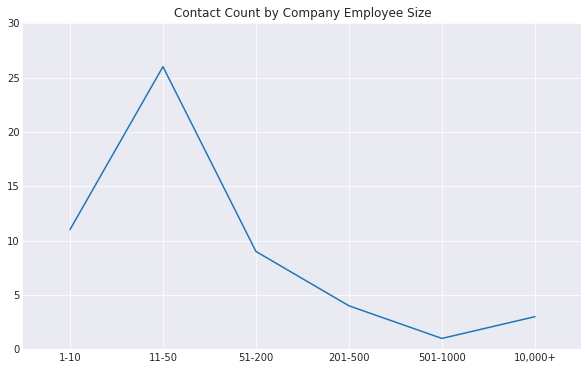
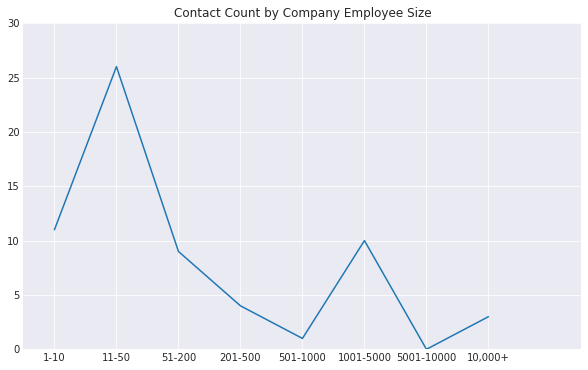
fixed bug in dispaly layer

diff --git a/_posts/2018-02-03-job-search-sales-ops-p3.md b/_posts/2018-02-03-job-search-sales-ops-p3.md
@@ -45,10 +45,10 @@ Read the dataset, rename the columns to something reasonable.
 ```python
 df = pd.read_csv('./data/prospect_proforma.csv')
 
-old_names = ['Int?', 'Contact Type', 'Outreach', 'Connect',
-             'Stage', 'Reason', 'Intros?', 'FU Date',
+old_names = ['Int?', 'Contact Type', 'Outreach', 'Connect', 
+             'Stage', 'Reason', 'Intros?', 'FU Date', 
              'Last ACT', 'Meetings', 'Email Address', 'LI Link',
-             'Employees', 'Industry', 'First Name', 'Last Name',
+             'Employees', 'Industry', 'First Name', 'Last Name', 
              'Company', 'Position', 'Connected On', 'Tags']
 new_names = ['INTERESTED','CONTACT_REASON','CONTACTED','CONNECTED',
              'STAGE','CLOSED_LOST_REASON','PROVIDED_INTROS','FOLLOWUP_DATE',
@@ -159,23 +159,23 @@ def tag_stages(row):
     # Did they make an interview?
     if row.notnull()['STAGE'] and row['STAGE'] != 'UQ':
         return 'INTERVIEW'
-
+    
     # Did they make a meeting?
     elif row.notnull()['STAGE']:
         return 'MEETING'
-
+    
     # Did they reply to email?
     elif row['CONNECTED'] == 'Yes':
         return 'CONNECTED'
-
+    
     # Did I reach out to them?
     elif row['CONTACTED'] == 'Yes':
         return 'CONTACTED'
-
+    
     else:
         return 'UNCONTACTED'
 
-
+    
 df['FUNNEL_STAGE'] = df.apply(tag_stages, axis = 1)
 
 print(df['FUNNEL_STAGE'].value_counts())
@@ -263,7 +263,8 @@ Let's take a look at the distribution of company sizes throughout the funnel. Ag
 
 ```python
 employee_mapping = {'1-10': 1, '11-50': 2, '51-200': 3,
-                   '201-500': 4,'501-1000': 5, '10,000+': 6}
+                    '201-500': 4,'501-1000': 5, '1001-5000': 6, 
+                    '5001-10000': 7, '10,000+': 8}
 df['FUNNEL_EMPLOYEES_INT'] = df['EMPLOYEES'].map(employee_mapping)
 ```
 
@@ -275,13 +276,13 @@ def get_count_by_company_size(company_size_int):
     return df[(df['FUNNEL_EMPLOYEES_INT'] == company_size_int)]['FUNNEL_EMPLOYEES_INT'].count()
 
 employee_sizes = []
-for i in range(1, 7):
+for i in range(1, 9):
     employee_sizes.append((i, get_count_by_company_size(i)))
 
 print(employee_sizes)
 ```
 
-    [(1, 11), (2, 26), (3, 9), (4, 4), (5, 1), (6, 3)]
+    [(1, 11), (2, 26), (3, 9), (4, 4), (5, 1), (6, 10), (7, 0), (8, 3)]
 
 
 ### Plotting time!
@@ -291,9 +292,9 @@ print(employee_sizes)
 # This is the same as above, but looking across employee buckets
 plt.figure(figsize=(10, 6))
 plt.ylim(0,30)
-plt.xlim(0.5, 6.5)
+plt.xlim(0.5, 9.5)
 plt.plot(*zip(*employee_sizes))
-plt.xticks(range(1, 7), sorted(employee_mapping, key=employee_mapping.get))
+plt.xticks(range(1, 9), sorted(employee_mapping, key=employee_mapping.get))
 plt.title('Contact Count by Company Employee Size')
 
 plt.show()
@@ -313,15 +314,15 @@ Maybe the graph between the company size and the stage might light some insight
 ```python
 def get_employee_count_by_stage(contact):
     return (contact['FUNNEL_EMPLOYEES_INT'], contact['FUNNEL_STAGE_INT'])
-
+    
 employees_by_stage = []
 for _, contact in df[df['FUNNEL_EMPLOYEES_INT'].notnull()].iterrows():
     employees_by_stage.append(get_employee_count_by_stage(contact))
-
+    
 print(employees_by_stage[:5])
 ```
 
-    [(2.0, 3.0), (3.0, 2.0), (2.0, 3.0), (2.0, 2.0), (2.0, 2.0)]
+    [(2.0, 3.0), (6.0, 1.0), (3.0, 2.0), (6.0, 2.0), (2.0, 3.0)]
 
 
 
@@ -329,7 +330,7 @@ print(employees_by_stage[:5])
 # More figure and scale setup
 plt.figure(figsize=(10, 8))
 plt.ylim(-0.5, 5.5)
-plt.xlim(-0.5, 7.5)
+plt.xlim(-1.5, 9.5)
 
 # Seaborn likes explicit passes for params
 x, y = map(list, zip(*employees_by_stage))
@@ -337,7 +338,7 @@ x, y = map(list, zip(*employees_by_stage))
 # Let seaborn shine!
 ax = sns.kdeplot(x, y, n_levels=20, cmap="GnBu_d")
 
-plt.xticks(range(1, 7), sorted(employee_mapping, key=employee_mapping.get))
+plt.xticks(range(1, 9), sorted(employee_mapping, key=employee_mapping.get), rotation='vertical')
 plt.yticks(range(1, 5), sorted(mapping, key=mapping.get))
 plt.title('Contact Density by Company Employee Size and Stage')
 plt.show()
